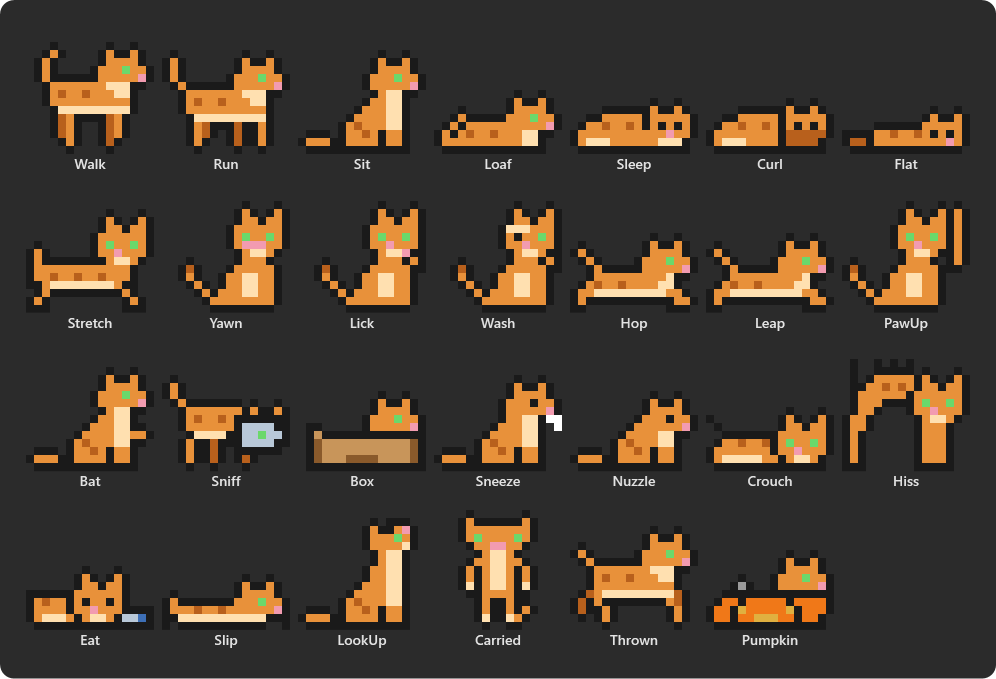
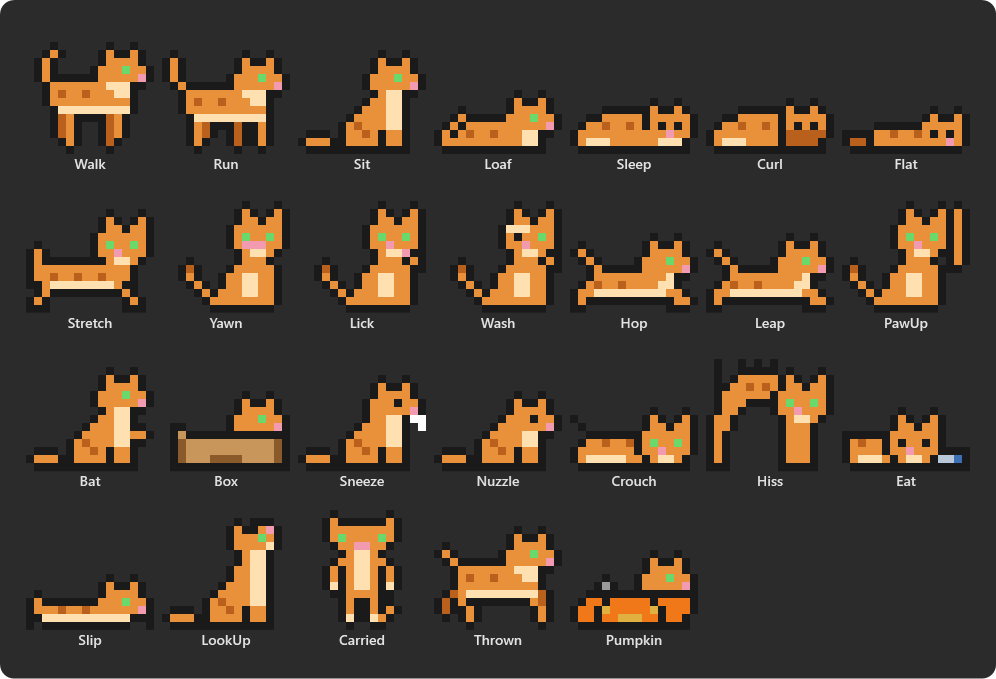
Remove the sniff animation

diff --git a/src/TaskbarCats/SpriteArt.cs b/src/TaskbarCats/SpriteArt.cs
@@ -700,82 +700,6 @@ public static partial class Sprites
         ],
     ];
 
-    static string[][] SniffFrames =>
-    [
-        [
-            "................",
-            "................",
-            "................",
-            "................",
-            "...K............",
-            "..KFK...........",
-            ".KFK............",
-            ".KFKKKKKKK.K..K.",
-            "..KFFFFFFFKFKKFK",
-            "..KFDFFDFKKKKKKK",
-            "..KFFFFFFKAAAAKK",
-            "...KLLLLKKAAEAAK",
-            "..KDKKFKKKAAAAKK",
-            "..KDKKFK.KKKKKK.",
-            "..KDKKFK..KDKK..",
-            "...K..K....K....",
-        ],
-        [
-            "................",
-            "................",
-            "................",
-            "................",
-            ".K..............",
-            "KFK.............",
-            "KFK.............",
-            ".KFKKKKKKK.K..K.",
-            "..KFFFFFFFKFKKFK",
-            "..KFDFFDFKKKKKKK",
-            "..KFFFFFFKAAAAKK",
-            "...KLLLLKKAAEAAK",
-            "..KFKKDKKKAAAAKK",
-            "..KFKKDK.KKKKKK.",
-            "..KFKKDK.KDK....",
-            "...K..K...K.....",
-        ],
-        [
-            "................",
-            "................",
-            "................",
-            "................",
-            "...K............",
-            "..KFK...........",
-            ".KFK............",
-            ".KFKKKKKKK.K..K.",
-            "..KFFFFFFFKFKKFK",
-            "..KFDFFDFKKKKKKK",
-            "..KFFFFFFKAWAAKK",
-            "...KLLLLKKAAEAAK",
-            "..KDKKFKKKAAAAKK",
-            "..KDKKFK.KKKKKK.",
-            "..KDKKFK..KDKK..",
-            "...K..K....K....",
-        ],
-        [
-            "................",
-            "................",
-            "................",
-            "................",
-            ".K..............",
-            "KFK.............",
-            "KFK.............",
-            ".KFKKKKKKK.K..K.",
-            "..KFFFFFFFKFKKFK",
-            "..KFDFFDFKKKKKKK",
-            "..KFFFFFFKAWAAKK",
-            "...KLLLLKKAAEAAK",
-            "..KFKKDKKKAAAAKK",
-            "..KFKKDK.KKKKKK.",
-            "..KFKKDK.KDK....",
-            "...K..K...K.....",
-        ],
-    ];
-
     static string[][] BatFrames =>
     [
         [

diff --git a/src/TaskbarCats/Tune.cs b/src/TaskbarCats/Tune.cs
@@ -1,9 +1,9 @@
 namespace TaskbarCats;
 
 /// What a busy cat is doing, chosen from the conversation's live signals (Mood).
-/// Toy = the filler between tool calls (its pursuit: mouse, yarn or bird); a shell command plays with it too. Sniff/Bat/Watch = tool poses.
+/// Toy = the filler between tool calls (its pursuit: mouse, yarn or bird); a shell command plays with it too. Bat/Watch = tool poses.
 /// Box = the model has been thinking for BoxAfter. Rest/Nap = a long run. Limit = rate limited. Supervise = sub-agents only.
-public enum Activity { Toy, Sniff, Bat, Watch, Box, Supervise, Rest, Nap, Limit, Butterfly }
+public enum Activity { Toy, Bat, Watch, Box, Supervise, Rest, Nap, Limit, Butterfly }
 
 /// One-off reactions to something that just happened in the conversation.
 public enum Cue { Mrrp, Catch, Slip, Sneeze, Startle, Wonder, Reward }
@@ -74,13 +74,12 @@ public static class Tune
 
     public static Activity? PoseFor(string? tool) => tool switch
     {
-        "Read" or "Grep" or "Glob" or "LS" or "NotebookRead" => Activity.Sniff,
         "Edit" or "Write" or "MultiEdit" or "NotebookEdit" => Activity.Bat,
         "WebFetch" or "WebSearch" => Activity.Watch,
         _ => null,
     };
 
-    public static bool IsPose(Activity a) => a is Activity.Sniff or Activity.Bat or Activity.Watch;
+    public static bool IsPose(Activity a) => a is Activity.Bat or Activity.Watch;
 
     /// Pumpkin instead of the box, a bat instead of the overhead bird.
     public static bool IsHalloween(DateTime d) => d.Month == 10 && d.Day >= 17;
@@ -113,7 +112,7 @@ public static class Tune
     public const double BirdFlapMs = 120, BirdPeckEvery = 1.5, BirdPeckTime = 0.3;
     // Cat side (CatPlay.cs). Distances are from the cat's left edge to the thing's left edge.
     public const double YarnStart = 60, BirdStart = 160, MouseBeside = 60, CheeseGap = 22;
-    public const double SniffSpeed = 15, StalkRange = 140, WiggleMin = 0.8, WiggleMax = 1.8, BatTime = 0.45;
+    public const double StalkRange = 140, WiggleMin = 0.8, WiggleMax = 1.8, BatTime = 0.45;
     public const double FlyerSwing = 70, FlyerLift = 64, ButterflyAhead = 30, ButterflyLift = 40;
     public const double KittenGap = 20, KittenHop = 10;
     // Reactions (CatCues.cs), seconds unless noted.

diff --git a/src/TaskbarCats/CatPlay.cs b/src/TaskbarCats/CatPlay.cs
@@ -34,7 +34,7 @@ public sealed partial class Cat
         ? X + (FacingRight ? Size * 0.75 + Tune.KittenGap * i : -Tune.KittenGap * (i + 1))
         : X + (FacingRight ? -Tune.KittenGap * (i + 1) : Size * 0.75 + Tune.KittenGap * i), _lo, _hi + Size / 2);
     public double KittenLift(int i) => Supervising ? Tune.KittenHop * Math.Abs(Math.Sin(_age * 4 + i * 1.3)) : 0;
-    public bool KittensMoving => Anim is Anim.Walk or Anim.Run or Anim.Sniff;
+    public bool KittensMoving => Anim is Anim.Walk or Anim.Run;
 
     void OnStatus(SessionStatus value)
     {
@@ -99,7 +99,6 @@ public sealed partial class Cat
             case Activity.Toy when Toy == Toy.Yarn:
             case Activity.Bat: TickYarn(dt, w); return;
             case Activity.Toy: TickStalk(dt, w); return;
-            case Activity.Sniff: Stroll(dt); return;
             case Activity.Watch:
                 Hold(Anim.LookUp);
                 if (Toy != Toy.Bird)   // a bird cat watches its own bird instead
@@ -136,16 +135,6 @@ public sealed partial class Cat
             _ => Bird?.X,
         };
         if (at is double x && Math.Abs(x - X) > 1) FacingRight = x > X;
-    }
-
-    /// Read/Grep/Glob: walk slowly, nose down behind the magnifier, turning at the strip ends.
-    void Stroll(double dt)
-    {
-        Hold(Anim.Sniff);
-        if (_pinned) return;
-        X += (FacingRight ? 1 : -1) * Tune.SniffSpeed * dt;
-        if (X <= _lo) { X = _lo; FacingRight = true; }
-        if (X >= _hi) { X = _hi; FacingRight = false; }
     }
 
     /// Yarn: run to the ball, bat it along the strip, run after it.

diff --git a/src/TaskbarCats/Cat.cs b/src/TaskbarCats/Cat.cs
@@ -1,6 +1,6 @@
 namespace TaskbarCats;
 
-public enum Anim { Walk, Sit, Lick, Wash, Stretch, Yawn, Sleep, Run, PawUp, Hop, Hiss, Crouch, Leap, Dangle, Eat, Fly, Sniff, Bat, LookUp, Box, Pumpkin, Loaf, Sneeze, Nuzzle, Slip, Curl, Flat }
+public enum Anim { Walk, Sit, Lick, Wash, Stretch, Yawn, Sleep, Run, PawUp, Hop, Hiss, Crouch, Leap, Dangle, Eat, Fly, Bat, LookUp, Box, Pumpkin, Loaf, Sneeze, Nuzzle, Slip, Curl, Flat }
 public enum Bubble { None, Meow, Bang, Zzz, GoodJob }
 public enum ClickResult { None, Focus }
 
@@ -17,7 +17,7 @@ public sealed partial class Cat
         [Anim.Stretch] = (3, 250), [Anim.Yawn] = (3, 200), [Anim.Sleep] = (2, 800), [Anim.Run] = (6, 70),
         [Anim.PawUp] = (2, 400), [Anim.Hop] = (3, 167), [Anim.Hiss] = (2, 200),
         [Anim.Crouch] = (2, 100), [Anim.Leap] = (2, 250), [Anim.Dangle] = (4, 600), [Anim.Eat] = (2, 200), [Anim.Fly] = (2, 200),
-        [Anim.Sniff] = (4, 150), [Anim.Bat] = (3, 150), [Anim.LookUp] = (2, 400),   // v4 tool poses
+        [Anim.Bat] = (3, 150), [Anim.LookUp] = (2, 400),   // v4 tool poses
         [Anim.Box] = (2, 700), [Anim.Pumpkin] = (2, 700), [Anim.Loaf] = (2, 900),
         [Anim.Sneeze] = (2, 300), [Anim.Nuzzle] = (2, 500), [Anim.Slip] = (2, 200),
         [Anim.Curl] = (2, 800), [Anim.Flat] = (2, 800),   // v5 sleep poses: a slow breath, like Sleep

diff --git a/src/TaskbarCats/Sprites.cs b/src/TaskbarCats/Sprites.cs
@@ -61,7 +61,7 @@ public static partial class Sprites
     }
 
     /// Poses with no collar: the head is down in a bowl or box, or tucked under the tail, so there is no neck to ring.
-    static readonly HashSet<Anim> NoNeck = [Anim.Box, Anim.Pumpkin, Anim.Sniff, Anim.Curl];
+    static readonly HashSet<Anim> NoNeck = [Anim.Box, Anim.Pumpkin, Anim.Curl];
 
     /// `rows` with the collar drawn as 'R' (Palette.Collar) and the gold medallion as 'T'. The band is one horizontal row
     /// of fur directly under the head (the row after the nose 'P', or after the eyes 'E' when they sit lower, the
@@ -225,7 +225,7 @@ public static partial class Sprites
         [Anim.Walk] = WalkFrames,
         [Anim.Run] = WalkFrames,   // same legs, faster frame rate (Cat.Timing)
         [Anim.Sit] = SitFrames, [Anim.Hop] = HopFrames, [Anim.Leap] = LeapFrames,   // profile head (SpriteArt.cs)
-        [Anim.Sniff] = SniffFrames, [Anim.Bat] = BatFrames, [Anim.LookUp] = LookUpFrames,
+        [Anim.Bat] = BatFrames, [Anim.LookUp] = LookUpFrames,
         [Anim.Box] = BoxFrames, [Anim.Pumpkin] = PumpkinFrames, [Anim.Loaf] = LoafFrames,
         [Anim.Sneeze] = SneezeFrames, [Anim.Nuzzle] = NuzzleFrames, [Anim.Slip] = SlipFrames,
         [Anim.Curl] = CurlFrames, [Anim.Flat] = FlatFrames,   // v5 sleep poses (SpriteArt.cs)

diff --git a/tests/TaskbarCats.Tests/SpritesTests.cs b/tests/TaskbarCats.Tests/SpritesTests.cs
@@ -160,7 +160,7 @@ public class SpritesTests
     }
 
     [Fact] public void Tool_poses_are_drawn() =>
-        Assert.All(new[] { Anim.Sniff, Anim.Bat, Anim.LookUp }, a => Assert.True(Sprites.Frames.ContainsKey(a), a.ToString()));
+        Assert.All(new[] { Anim.Bat, Anim.LookUp }, a => Assert.True(Sprites.Frames.ContainsKey(a), a.ToString()));
 
     [Fact] public void Thinking_and_tired_poses_are_drawn() =>
         Assert.All(new[] { Anim.Box, Anim.Pumpkin, Anim.Loaf }, a => Assert.True(Sprites.Frames.ContainsKey(a), a.ToString()));
@@ -264,7 +264,7 @@ public class SpritesTests
     }
     // v5 customization: coats, plain coat, collars.
     // head down in a bowl or box, or tucked under the tail: no neck to ring, the frame comes back unchanged
-    static readonly Anim[] CollarLess = [Anim.Box, Anim.Pumpkin, Anim.Sniff, Anim.Curl];
+    static readonly Anim[] CollarLess = [Anim.Box, Anim.Pumpkin, Anim.Curl];
     // a low pose with no chest under the band (it lies on the ground): the medallion takes the band's front px
     static readonly Anim[] NoChest = [Anim.Slip, Anim.Flat, Anim.Sleep, Anim.Stretch, Anim.Crouch, Anim.Eat];
     [Fact] public void There_are_ten_coats_with_unique_names_and_six_collars()

diff --git a/tests/TaskbarCats.Tests/CatPlayTests.cs b/tests/TaskbarCats.Tests/CatPlayTests.cs
@@ -13,7 +13,7 @@ public class CatPlayTests
     [Theory]
     [InlineData(Activity.Watch, Anim.LookUp)] [InlineData(Activity.Butterfly, Anim.LookUp)]
     [InlineData(Activity.Box, Anim.Box)] [InlineData(Activity.Rest, Anim.Loaf)]
-    [InlineData(Activity.Nap, Anim.Sleep)] [InlineData(Activity.Limit, Anim.Sleep)] [InlineData(Activity.Sniff, Anim.Sniff)]
+    [InlineData(Activity.Nap, Anim.Sleep)] [InlineData(Activity.Limit, Anim.Sleep)]
     public void Each_activity_has_its_pose_and_no_bubble(Activity a, Anim anim)
     {
         var c = Busy(a);
@@ -149,7 +149,7 @@ public class CatPlayTests
 
     [Theory]
     [InlineData(Activity.Toy)] [InlineData(Activity.Watch)] [InlineData(Activity.Box)] [InlineData(Activity.Rest)]
-    [InlineData(Activity.Nap)] [InlineData(Activity.Sniff)] [InlineData(Activity.Limit)]
+    [InlineData(Activity.Nap)] [InlineData(Activity.Limit)]
     public void The_mouse_never_covers_the_cats_face(Activity a)
     {
         foreach (int seed in new[] { 1, 2, 3 })

diff --git a/tests/TaskbarCats.Tests/MoodTests.cs b/tests/TaskbarCats.Tests/MoodTests.cs
@@ -36,14 +36,14 @@ public class MoodTests
     {
         var picks = Enumerable.Range(0, 200).Select(seed => { var m = New(seed); At(m, Tool("Edit"), 0); return m.Activity; }).ToList();
         Assert.InRange(picks.Count(a => a == Activity.Bat), 100, 200);
-        Assert.DoesNotContain(picks, a => a is Activity.Sniff or Activity.Watch);
+        Assert.DoesNotContain(picks, a => a is Activity.Watch);
     }
 
     [Fact] public void A_new_tool_kind_switches_the_pose_at_once()
     {
-        var m = Enumerable.Range(0, 100).Select(New).First(m => { At(m, Tool("Read"), 0); return m.Activity == Activity.Sniff; });
+        var m = Enumerable.Range(0, 100).Select(New).First(m => { At(m, Tool("Edit"), 0); return m.Activity == Activity.Bat; });
         At(m, Tool("Bash", last: 2), 2);
-        Assert.NotEqual(Activity.Sniff, m.Activity);
+        Assert.NotEqual(Activity.Bat, m.Activity);
     }
 
     [Fact] public void A_pick_is_held_then_never_repeated()

diff --git a/tools/make-media/Program.cs b/tools/make-media/Program.cs
@@ -103,7 +103,7 @@ static class Media
         (Anim.Walk, "Walk", 1), (Anim.Run, "Run", 2), (Anim.Sit, "Sit", 0), (Anim.Loaf, "Loaf", 0), (Anim.Sleep, "Sleep", 0),
         (Anim.Curl, "Curl", 0), (Anim.Flat, "Flat", 0), (Anim.Stretch, "Stretch", 1), (Anim.Yawn, "Yawn", 1), (Anim.Lick, "Lick", 1),
         (Anim.Wash, "Wash", 1), (Anim.Hop, "Hop", 1), (Anim.Leap, "Leap", 0), (Anim.PawUp, "PawUp", 0), (Anim.Bat, "Bat", 1),
-        (Anim.Sniff, "Sniff", 1), (Anim.Box, "Box", 0), (Anim.Sneeze, "Sneeze", 1), (Anim.Nuzzle, "Nuzzle", 0), (Anim.Crouch, "Crouch", 0),
+        (Anim.Box, "Box", 0), (Anim.Sneeze, "Sneeze", 1), (Anim.Nuzzle, "Nuzzle", 0), (Anim.Crouch, "Crouch", 0),
         (Anim.Hiss, "Hiss", 0), (Anim.Eat, "Eat", 0), (Anim.Slip, "Slip", 0), (Anim.LookUp, "LookUp", 0), (Anim.Dangle, "Carried", 0),
         (Anim.Fly, "Thrown", 0), (Anim.Pumpkin, "Pumpkin", 0),
     ];

diff --git a/tests/TaskbarCats.Tests/TuneTests.cs b/tests/TaskbarCats.Tests/TuneTests.cs
@@ -37,7 +37,6 @@ public class TuneTests
     public void Yarn_grows_with_edits(int edits, int stage) => Assert.Equal(stage, Tune.YarnStage(edits));
 
     [Theory]
-    [InlineData("Read", Activity.Sniff)] [InlineData("Grep", Activity.Sniff)] [InlineData("Glob", Activity.Sniff)]
     [InlineData("Edit", Activity.Bat)] [InlineData("Write", Activity.Bat)] [InlineData("MultiEdit", Activity.Bat)]
     [InlineData("WebFetch", Activity.Watch)] [InlineData("WebSearch", Activity.Watch)]
     public void Tools_map_to_poses(string tool, Activity pose)

diff --git a/tests/TaskbarCats.Tests/YarnChaseTests.cs b/tests/TaskbarCats.Tests/YarnChaseTests.cs
@@ -24,7 +24,7 @@ public class YarnChaseTests
     }
 
     [Theory]
-    [InlineData(Activity.Toy)] [InlineData(Activity.Bat)] [InlineData(Activity.Sniff)]
+    [InlineData(Activity.Toy)] [InlineData(Activity.Bat)]
     [InlineData(Activity.Box)] [InlineData(Activity.Rest)]
     [InlineData(Activity.Nap)] [InlineData(Activity.Watch)] [InlineData(Activity.Butterfly)] [InlineData(Activity.Supervise)]
     public void A_thrown_ball_is_chased_whatever_the_mood(Activity a)

diff --git a/tests/TaskbarCats.Tests/DrawRulesTests.cs b/tests/TaskbarCats.Tests/DrawRulesTests.cs
@@ -26,7 +26,6 @@ public class DrawRulesTests
 
     [Fact] public void The_belly_grows_only_on_poses_with_a_torso()
     {
-        Assert.DoesNotContain(Anim.Sniff, Tune.BellyAnims);
         Assert.DoesNotContain(Anim.Sleep, Tune.BellyAnims);
         foreach (var a in Tune.BellyAnims)
             foreach (var f in Sprites.Frames[a])
